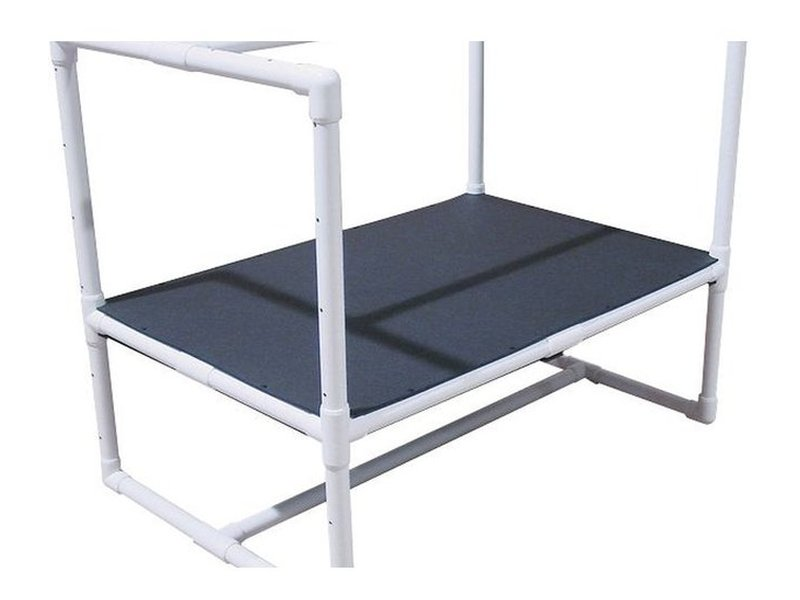
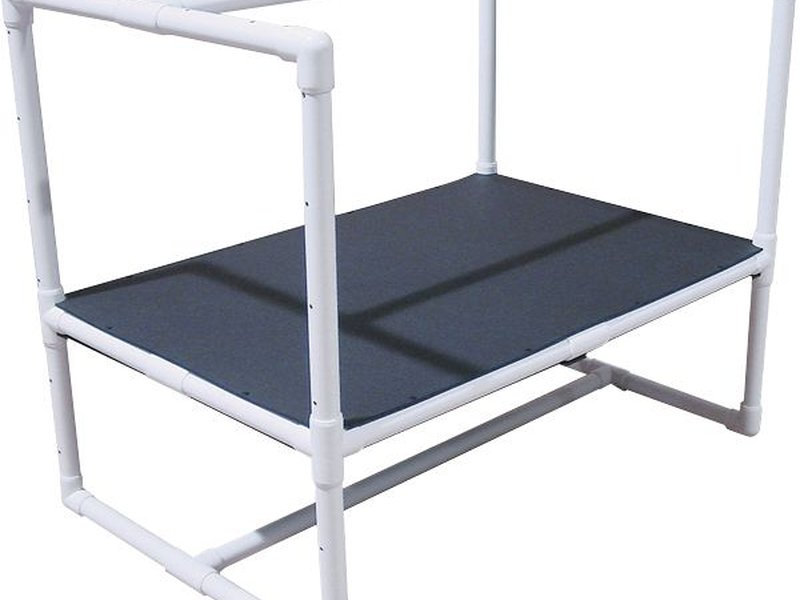
Revert platform-1 image to original, use CSS transform: scale(0.8) for 80% size
- Restored original platform-1.jpg from git (39KB, unmodified)
- Now using CSS transform: scale(0.8) to control display size
- Image file is no longer modified — size is controlled purely by CSS
- To change size: edit the scale value in .product-platform rule in style.css

Changed region(s): [[0.0, 0.0, 1.0, 1.0], [0.5312, 0.45, 0.5625, 0.48], [0.5, 0.48, 0.5312, 0.51]]

diff --git a/css/style.css b/css/style.css
@@ -406,7 +406,7 @@ ul { list-style: none; }
    properties for individual products here.
    Default for all products: object-fit: cover
    ============================================ */
-.product-platform .gallery-main img { object-fit: contain; width: 100% !important; height: 100% !important; max-width: none !important; }
+.product-platform .gallery-main img { object-fit: contain; transform: scale(0.8); }
 /* .product-life-vest-rack .gallery-main img { object-fit: contain; } */
 .product-lifeguard-chair .gallery-main img { object-fit: contain; }
 /* .product-kickboard .gallery-main img { object-fit: contain; } */
